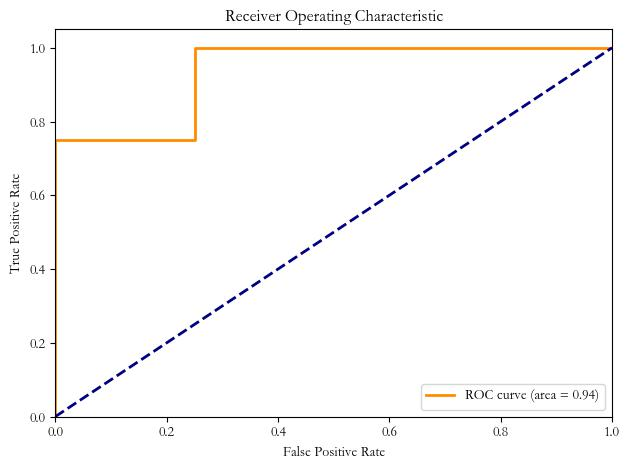
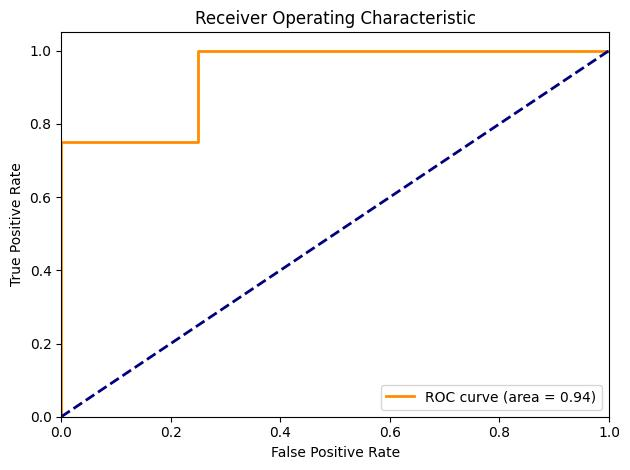
update files

diff --git a/src/订单/单子-李谱/code/RF.py b/src/订单/单子-李谱/code/RF.py
@@ -1,0 +1,71 @@
+import os
+import pandas as pd
+import matplotlib.pyplot as plt
+import seaborn as sns
+
+from sklearn.model_selection import train_test_split
+from sklearn.ensemble import RandomForestClassifier
+from sklearn.metrics import accuracy_score
+from sklearn.metrics import roc_curve
+from sklearn.metrics import auc
+from sklearn.metrics import confusion_matrix
+from sklearn.metrics import classification_report
+
+base_dir = os.path.dirname(os.path.dirname(os.path.abspath(__name__)))
+data = pd.read_excel(os.path.join(base_dir, 'data', 'Rice_MSC_Dataset.xlsx'))
+df = pd.DataFrame(data)
+print(df.shape)
+print(df.head())
+cat_cols = [col for col in df.columns if df[col].dtype == "object"] # 类别型变量名
+num_cols = [col for col in df.columns if df[col].dtype != "object"] # 数值型变量名
+
+# 提取目标变量和特征变量
+target = 'CLASS'
+features = df.columns.drop(target)
+print(df['CLASS'].value_counts()) # 顺便查看一下样本是否平衡
+X_train, X_test, y_train, y_test = train_test_split(df[features], df[target], test_size=0.2, shuffle=True, random_state=0)
+
+# # 模型的构建与训练
+# model = RandomForestClassifier()
+# model.fit(X_train, y_train)
+#
+# # 模型推理与评价
+# y_pred = model.predict(X_test)
+# y_scores = model.predict_proba(X_test)
+# acc = accuracy_score(y_test, y_pred) # 准确率acc
+# print(acc)
+# cm = confusion_matrix(y_test, y_pred) # 混淆矩阵
+# cr = classification_report(y_test, y_pred) # 分类报告
+# fpr, tpr, thresholds = roc_curve(y_test, y_scores[:, 1], pos_label=1) # 计算ROC曲线和AUC值,绘制ROC曲线
+# roc_auc = auc(fpr, tpr)
+# print(roc_auc)
+# plt.figure()
+# plt.plot(fpr, tpr, color='darkorange', lw=2, label='ROC curve (area = %0.2f)' % roc_auc)
+# plt.plot([0, 1], [0, 1], color='navy', lw=2, linestyle='--')
+# plt.xlim([0.0, 1.0])
+# plt.ylim([0.0, 1.05])
+# plt.xlabel('False Positive Rate')
+# plt.ylabel('True Positive Rate')
+# plt.title('Receiver Operating Characteristic')
+# plt.legend(loc="lower right")
+# plt.tight_layout()
+# plt.savefig(os.path.join(base_dir, 'result', 'RF-ROC.jpg'), bbox_inches='tight')
+# plt.show()
+#
+# # 提取特征重要性
+# feature_importance = model.feature_importances_
+# feature_names = features
+# # 创建特征重要性的DataFrame
+# importance_df = pd.DataFrame({'Feature': feature_names, 'Importance': feature_importance})
+# # 对特征重要性进行排序
+# importance_df = importance_df.sort_values(by='Importance', ascending=False)
+# importance_df.to_excel(os.path.join(base_dir, 'result', 'RF特征重要性排序.xlsx'))
+# # 可视化特征重要性
+# plt.figure(figsize=(10, 6))
+# sns.barplot(x='Importance', y='Feature', data=importance_df.head(20))
+# plt.title('Feature Importance')
+# plt.xlabel('Importance')
+# plt.ylabel('Feature')
+# plt.tight_layout()
+# plt.savefig(os.path.join(base_dir, 'result', 'RF-feature-imprtance-top20.jpg'), bbox_inches='tight')
+# plt.show()
